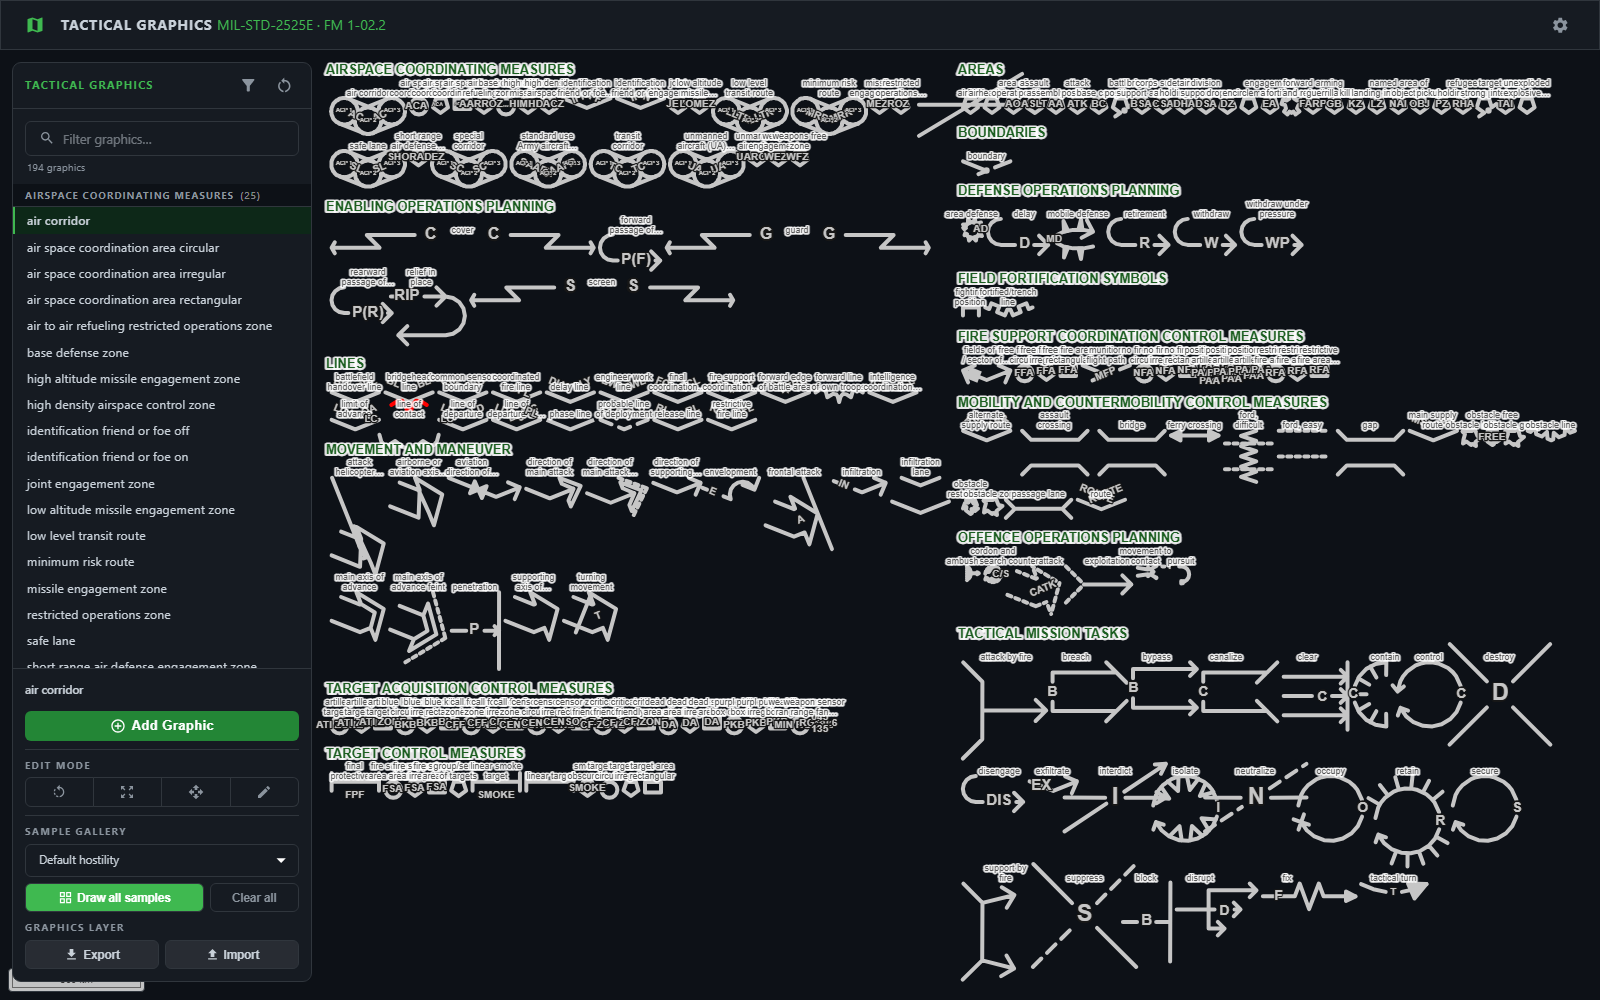
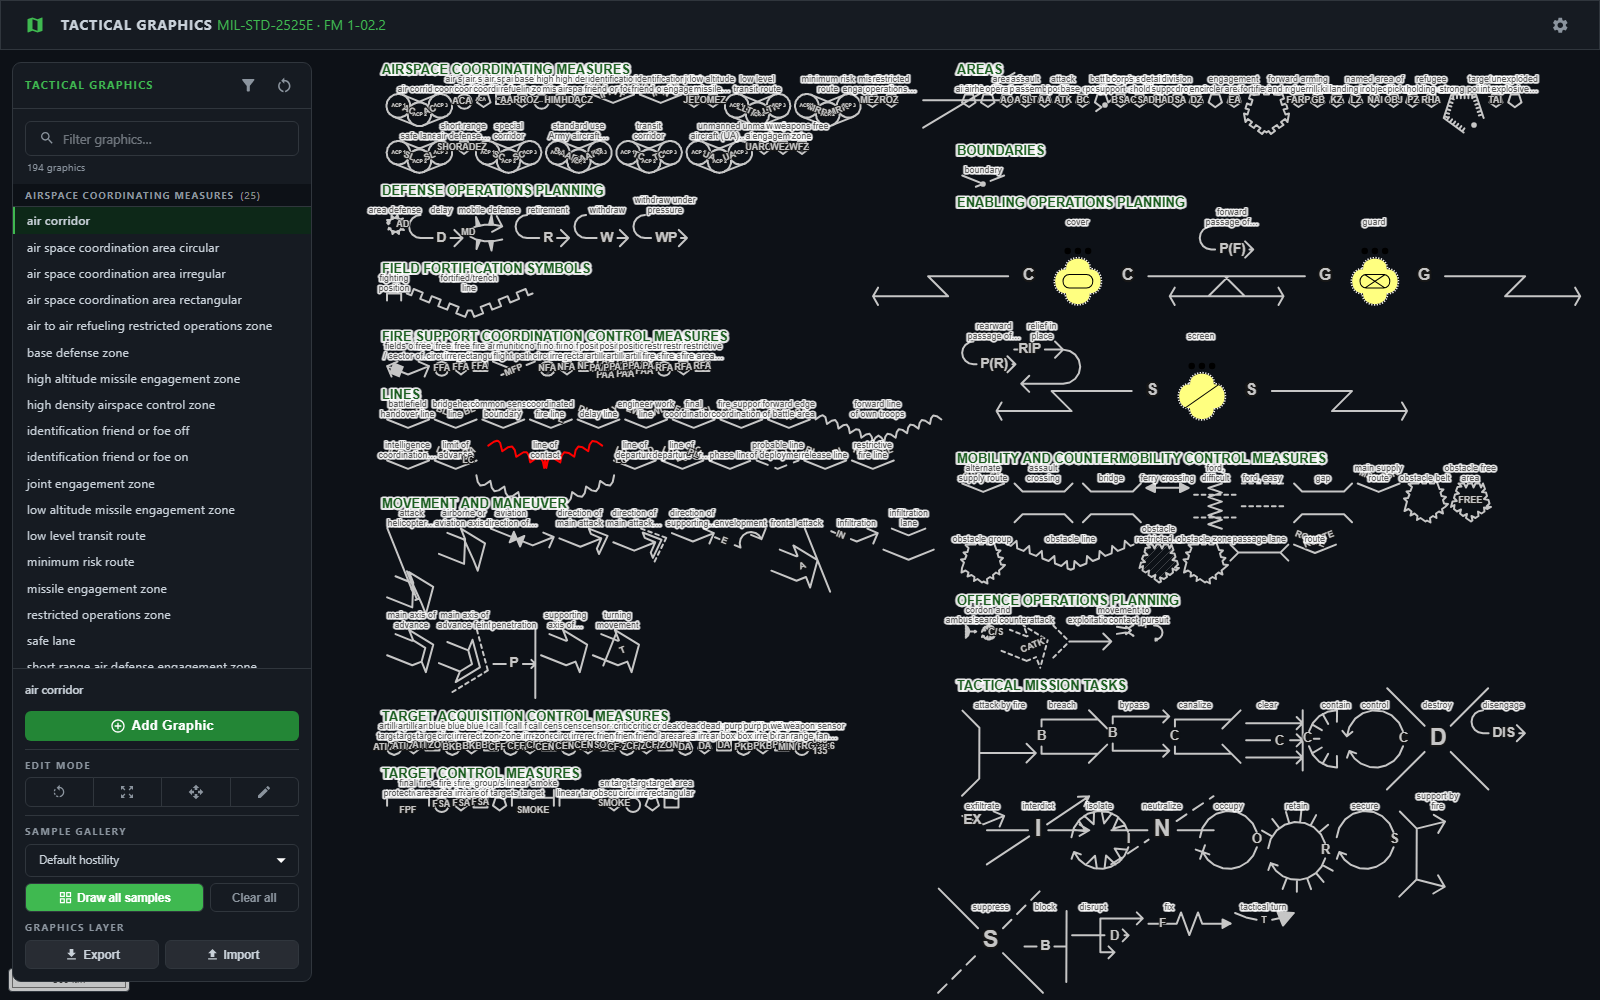
Shrink decorations, then drop them, once the shape is small on screen
Obstacle teeth, fortified merlons, the FLOT and line-of-contact scallops and
StrongPoint's cross ties are drawn at a constant number of screen pixels. That
is right in the middle of the range and wrong at the far end: zoomed out, a
117 px obstacle line still carried six full-size teeth and read as a zigzag
rather than as a line.

decorationScale already existed for a shape too small to carry its own
decoration, but its shares - 0.25 closed, 0.12 open - were loose enough that it
effectively never engaged. At 0.12 an open path had to fall under 83 px before a
10 px tooth was touched. They are 0.1 and 0.05 now, and below DECORATION_MIN_PX
the decoration is dropped rather than drawn - a row of 2 px bumps reads as a
fuzzy line, not an obstacle. That costs nothing: the three path builders already
return their input unchanged when the pattern is non-positive.

Shape-relative and not zoom-relative, deliberately. A graphic 120 px across needs
the same treatment whether it got that way by being drawn small or by the user
zooming out; a resolution threshold catches only the second.

StrongPoint was the one set never capped. Its ties are where the screen-fixed
approach started and the others were changed to match them, but they had no cap
at all, so zoomed out they swamped the ring they hang off.

Normal zoom is untouched: a 400 px line still gets its full 10 px teeth.

The sample gallery had to grow to keep up. The floor stripped the decoration from
[…]

diff --git a/src/components/openlayers/openlayerStyles.test.ts b/src/components/openlayers/openlayerStyles.test.ts
@@ -57,6 +57,7 @@ import {
     obstacleAreaStyles,
     obstacleLineStyle,
     obstacleRestrictedZoneStyle,
+    getStyle,
 } from './openlayerStyles';
 
 import {
@@ -598,16 +599,31 @@ describe('obstacle teeth in screen space', () => {
         }
     });
 
-    it('shrinks the teeth rather than swamping a symbol too small to carry them', () => {
-        // A 40 m square at resolution 10 is 4 px across — the gallery case. A 10 px tooth
-        // on a 4 px symbol is nonsense, so the height is capped at a share of the shape.
-        const tiny: number[][] = [[0, 0], [0, 40], [40, 40], [40, 0], [0, 0]];
-        const styles = obstacleAreaStyles(new Feature(new Polygon([tiny])), 10, {outward: true});
+    /** Tallest excursion outside the drawn square, in px. 0 when nothing was added. */
+    const areaToothPx = (sideMetres: number, resolution: number) => {
+        const ring: number[][] = [[0, 0], [0, sideMetres], [sideMetres, sideMetres], [sideMetres, 0], [0, 0]];
+        const styles = obstacleAreaStyles(new Feature(new Polygon([ring])), resolution, {outward: true});
         const drawn = (styles[0].getGeometry() as Polygon).getCoordinates()[0];
-        const offsets = drawn.map(([x, y]) => Math.max(-x, x - 40, -y, y - 40)).filter(d => d > 0.001);
-        const tallestPx = (offsets.length ? Math.max(...offsets) : 0) / 10;
+        const offsets = drawn
+            .map(([x, y]) => Math.max(-x, x - sideMetres, -y, y - sideMetres))
+            .filter(d => d > 0.001);
+        return (offsets.length ? Math.max(...offsets) : 0) / resolution;
+    };
+
+    it('shrinks the teeth rather than swamping a symbol too small to carry them', () => {
+        // 800 m at resolution 10 is 80 px across. A full 10 px tooth is an eighth of the
+        // symbol, so it is capped at DECORATION_MAX_SHARE_CLOSED of the shape instead.
+        const tallestPx = areaToothPx(800, 10);
         expect(tallestPx).toBeLessThan(10);
-        expect(tallestPx).toBeCloseTo(4 * 0.25, 6);
+        expect(tallestPx).toBeCloseTo(80 * 0.1, 6);
+    });
+
+    it('drops the teeth entirely once they would be a few pixels', () => {
+        // A 40 m square at resolution 10 is 4 px across — the gallery case. The cap would
+        // put the teeth at 0.4 px, which is texture on the stroke rather than a symbol,
+        // so the plain ring is drawn instead. Below DECORATION_MIN_PX there is no
+        // decoration at all.
+        expect(areaToothPx(40, 10)).toBe(0);
     });
 
     it('leaves a degenerate ring alone rather than emitting spikes', () => {
@@ -645,20 +661,36 @@ describe('fortified and wave graphics in screen space', () => {
         return geom.getCoordinates().map(([, y]) => Math.abs(y) / resolution).filter(d => d > 0.01);
     };
 
+    /** Tallest merlon on the 4 km LINE at a given resolution, in px. */
+    const fortifiedLinePx = (res: number) => {
+        const styles = fortifiedLineStyleFunc(TacticalGraphicName.FortifiedLine)(
+            lineFeature(TacticalGraphicName.FortifiedLine), res) as Style[];
+        return Math.max(...excursionsPx(styles, res));
+    };
+
+    // Resolution 40 is deliberately absent: it puts the 4 km line at 100 px, small
+    // enough on screen that the shape-relative cap engages. That is the subject of the
+    // test below, not a violation of this one.
     it('sizes the fortified line’s merlons in pixels, not metres', () => {
-        const heights = [40, 10, 2, 0.5].map(res => {
-            const styles = fortifiedLineStyleFunc(TacticalGraphicName.FortifiedLine)(
-                lineFeature(TacticalGraphicName.FortifiedLine), res) as Style[];
-            return Math.max(...excursionsPx(styles, res));
-        });
+        const heights = [10, 2, 0.5].map(fortifiedLinePx);
         heights.forEach(h => expect(h).toBeCloseTo(heights[0], 6));
         expect(heights[0]).toBeCloseTo(11, 6);
+    });
+
+    it('shrinks the merlons once the line itself is small on screen', () => {
+        // 4 km at resolution 40 is 100 px. An 11 px merlon on a 100 px line reads as a
+        // zigzag rather than as a fortified line, so it is capped at
+        // DECORATION_MAX_SHARE_OPEN of the length.
+        expect(fortifiedLinePx(40)).toBeCloseTo(100 * 0.05, 6);
+        expect(fortifiedLinePx(40)).toBeLessThan(fortifiedLinePx(10));
     });
 
     it('sizes the fortified area’s merlons in pixels too, outward whichever way it was drawn', () => {
         for (const ring of [RING, [...RING].reverse()]) {
             const f = new Feature(new Polygon([ring]));
-            const heights = [40, 10, 2].map(res => {
+            // Resolution 40 leaves the 4 km ring 100 px across, inside the cap — see the
+            // fortified line's pair of tests above.
+            const heights = [10, 2].map(res => {
                 const drawn = (fortifiedAreaStyle(f, res)[0].getGeometry() as Polygon).getCoordinates()[0];
                 const outside = drawn.filter(([x, y]) => x < -0.01 || x > 4000.01 || y < -0.01 || y > 4000.01);
                 const inside = drawn.filter(([x, y]) => x > 0.01 && x < 3999.99 && y > 0.01 && y < 3999.99);
@@ -670,13 +702,21 @@ describe('fortified and wave graphics in screen space', () => {
         }
     });
 
+    /** Tallest scallop on the 4 km LINE at a given resolution, in px. */
+    const flotAmplitudePx = (res: number) => {
+        const styles = forwardLineOfOwnTroopsStyleFunc(TacticalGraphicName.ForwardLineOfOwnTroops)(
+            lineFeature(TacticalGraphicName.ForwardLineOfOwnTroops), res) as Style[];
+        return Math.max(...excursionsPx(styles, res));
+    };
+
+    // Resolution 40 excluded for the same reason as the fortified line: 100 px of line
+    // is inside the shape-relative cap.
     it('sizes the forward line of own troops’ scallops in pixels', () => {
-        const amplitudes = [40, 10, 2, 0.5].map(res => {
-            const styles = forwardLineOfOwnTroopsStyleFunc(TacticalGraphicName.ForwardLineOfOwnTroops)(
-                lineFeature(TacticalGraphicName.ForwardLineOfOwnTroops), res) as Style[];
-            return Math.max(...excursionsPx(styles, res));
-        });
-        amplitudes.forEach(a => expect(a).toBeCloseTo(8, 6));
+        [10, 2, 0.5].map(flotAmplitudePx).forEach(a => expect(a).toBeCloseTo(8, 6));
+    });
+
+    it('shrinks the scallops once the line itself is small on screen', () => {
+        expect(flotAmplitudePx(40)).toBeCloseTo(100 * 0.05, 6);
     });
 
     describe('line of contact', () => {
@@ -971,5 +1011,62 @@ describe('provider return shapes', () => {
         const f = feature();
         const style = securityOperationSymbolStyle(TacticalGraphicName.Screen, () => f, () => () => undefined);
         expect(style(f, 10)).toBeUndefined();
+    });
+});
+
+/**
+ * StrongPoint's cross ties.
+ *
+ * These are where the screen-fixed decorations started — the obstacle teeth and the
+ * fortified merlons were changed on 2026-08-03 to match them — but they were the one
+ * set that never got the shape-relative cap, so zoomed out they swamped the ring they
+ * hang off.
+ */
+describe('strong point cross ties', () => {
+    /** A square strong point of `sideMetres`, and the tie lengths it renders, in px. */
+    const tiePx = (sideMetres: number, resolution: number): number[] => {
+        const ring: number[][] = [
+            [0, 0], [0, sideMetres], [sideMetres, sideMetres], [sideMetres, 0], [0, 0],
+        ];
+        const f = new Feature(new Polygon([ring]));
+        writeGraphicProperties([f], TacticalGraphicName.StrongPoint, {label: ''});
+        const styles = getStyle(TacticalGraphicName.StrongPoint, f, resolution) as Style[];
+        return styles
+            .map(s => s.getGeometry())
+            .filter((g): g is LineString => g instanceof LineString)
+            .map(g => {
+                const [a, b] = g.getCoordinates();
+                return Math.hypot(b[0] - a[0], b[1] - a[1]) / resolution;
+            });
+    };
+
+    it('holds the same pixel length while the ring is comfortably large', () => {
+        // 40 km at resolutions 40 and 10 is 1000 px and 4000 px across — far above the
+        // cap either way, so the ties keep their constant 10 px.
+        for (const resolution of [40, 10]) {
+            const ties = tiePx(40_000, resolution);
+            expect(ties.length).toBeGreaterThan(0);
+            ties.forEach(t => expect(t).toBeCloseTo(10, 6));
+        }
+    });
+
+    it('shrinks the ties once the ring is small on screen', () => {
+        // 100 px across is exactly the boundary — DECORATION_MAX_SHARE_CLOSED of it is
+        // the tie's own 10 px, so nothing is taken off. 2 km at resolution 40 is 50 px,
+        // inside it, and the ties come down to a tenth of that.
+        expect(tiePx(4_000, 40)[0]).toBeCloseTo(10, 6);
+
+        const ties = tiePx(2_000, 40);
+        expect(ties.length).toBeGreaterThan(0);
+        ties.forEach(t => expect(t).toBeCloseTo(50 * 0.1, 6));
+    });
+
+    it('drops the ties entirely once they would be a few pixels', () => {
+        // 400 m at resolution 40 is 10 px across — the cap puts a tie at 1 px, which is
+        // fuzz on the outline rather than a symbol. The outline is still drawn.
+        expect(tiePx(400, 40)).toHaveLength(0);
+        const f = new Feature(new Polygon([[[0, 0], [0, 400], [400, 400], [400, 0], [0, 0]]]));
+        writeGraphicProperties([f], TacticalGraphicName.StrongPoint, {label: ''});
+        expect((getStyle(TacticalGraphicName.StrongPoint, f, 40) as Style[]).length).toBeGreaterThan(0);
     });
 });

diff --git a/src/components/openlayers/sampleGallery.ts b/src/components/openlayers/sampleGallery.ts
@@ -111,6 +111,40 @@ function sampleUnitProvider(name: TacticalGraphicName): SecurityOperationSymbolP
     };
 }
 
+/**
+ * Graphics whose style hangs a repeating decoration off the drawn path — obstacle
+ * teeth, fortified merlons, the FLOT and line-of-contact scallops, a strong point's
+ * cross ties.
+ *
+ * They are drawn larger than the rest of the sweep. Those decorations are sized in
+ * screen pixels and are dropped below `DECORATION_MIN_PX`, and at the size the other
+ * samples use — 11 px for an area, 35 px for a line — the cap puts them at one or two
+ * pixels, so every one of these rendered as a plain line or rectangle and the eleven
+ * of them became indistinguishable from each other. A sample that cannot show its own
+ * decoration is not a sample of anything.
+ */
+const DECORATED_GRAPHICS = new Set<TacticalGraphicName>([
+    TacticalGraphicName.ObstacleLine,
+    TacticalGraphicName.ObstacleBelt,
+    TacticalGraphicName.ObstacleGroup,
+    TacticalGraphicName.ObstacleZone,
+    TacticalGraphicName.ObstacleFreeArea,
+    TacticalGraphicName.ObstacleRestrictedArea,
+    TacticalGraphicName.FortifiedLine,
+    TacticalGraphicName.FortifiedArea,
+    TacticalGraphicName.StrongPoint,
+    TacticalGraphicName.ForwardLineOfOwnTroops,
+    TacticalGraphicName.LineOfContact,
+]);
+
+/**
+ * How much larger. Empirical, and only loosely predictable: growing these samples
+ * grows the packed layout, which the sweep then frames with a fit, which gives some
+ * of the gain back. Measured rather than derived — see the note on the security
+ * operation symbol in `measureSample` for the same effect.
+ */
+const DECORATED_SAMPLE_SCALE = 3;
+
 /** EPSG:3857 metres an area graphic (polygon, rectangle, circle) spans from its centre. */
 export const HALF = 30_600;
 /**
@@ -634,16 +668,18 @@ export function applyBaseGeometry(
     cy: number,
     symbolId: string,
 ): void {
+    const grow = DECORATED_GRAPHICS.has(name) ? DECORATED_SAMPLE_SCALE : 1;
     if (handler instanceof MissionTaskController) {
-        handler.graphic.updateGeom({size: HALF, center: [cx, cy], rotation: 0});
+        handler.graphic.updateGeom({size: HALF * grow, center: [cx, cy], rotation: 0});
     } else if (handler instanceof SecurityOperationsController) {
         handler.setBaseFeature(pointFeature([cx, cy], symbolId, name));
     } else if (handler instanceof PolygonGraphicController) {
-        const ring = handler instanceof RectangularAreaGraphicController ? rectRing(cx, cy) : pentagonRing(cx, cy);
+        const half = HALF * grow;
+        const ring = handler instanceof RectangularAreaGraphicController ? rectRing(cx, cy, half) : pentagonRing(cx, cy, half);
         handler.setBaseFeature(polygonFeature(ring, symbolId, name));
     } else if (handler instanceof LineGraphicController) {
         const pts = handler.maxPoints ?? 3; // multi-segment → 3 points (2 segments)
-        handler.setBaseFeature(lineFeature(lineCoords(cx, cy, pts), symbolId, name));
+        handler.setBaseFeature(lineFeature(lineCoords(cx, cy, pts, LINE_HALF * grow), symbolId, name));
     } else {
         throw new Error('unclassified controller');
     }
@@ -655,35 +691,35 @@ export function applyBaseGeometry(
  * Line vertices centred on (cx, cy): 2 points → 1 segment; 3+ → a shallow
  * 2-segment V. Drawn at LINE_HALF, not HALF — see LINE_SCALE.
  */
-function lineCoords(cx: number, cy: number, pts: number): Coordinate[] {
-    if (pts <= 2) return [[cx - LINE_HALF, cy], [cx + LINE_HALF, cy]];
+function lineCoords(cx: number, cy: number, pts: number, half = LINE_HALF): Coordinate[] {
+    if (pts <= 2) return [[cx - half, cy], [cx + half, cy]];
     return [
-        [cx - LINE_HALF, cy + LINE_HALF * 0.2],
-        [cx, cy - LINE_HALF * 0.2],
-        [cx + LINE_HALF, cy + LINE_HALF * 0.2],
+        [cx - half, cy + half * 0.2],
+        [cx, cy - half * 0.2],
+        [cx + half, cy + half * 0.2],
     ];
 }
 
 /** Closed 5-sided ring (point-up pentagon) inscribed in the cell. */
-function pentagonRing(cx: number, cy: number): Coordinate[] {
+function pentagonRing(cx: number, cy: number, half = HALF): Coordinate[] {
     const ring: Coordinate[] = [];
     for (let k = 0; k < 5; k++) {
         const a = -Math.PI / 2 + (k * 2 * Math.PI) / 5;
-        ring.push([cx + HALF * Math.cos(a), cy + HALF * Math.sin(a)]);
+        ring.push([cx + half * Math.cos(a), cy + half * Math.sin(a)]);
     }
     ring.push(ring[0]);
     return ring;
 }
 
 /** Closed rectangle ring (4 corners) inscribed in the cell. */
-function rectRing(cx: number, cy: number): Coordinate[] {
-    const hy = HALF * 0.68;
+function rectRing(cx: number, cy: number, half = HALF): Coordinate[] {
+    const hy = half * 0.68;
     return [
-        [cx - HALF, cy - hy],
-        [cx + HALF, cy - hy],
-        [cx + HALF, cy + hy],
-        [cx - HALF, cy + hy],
-        [cx - HALF, cy - hy],
+        [cx - half, cy - hy],
+        [cx + half, cy - hy],
+        [cx + half, cy + hy],
+        [cx - half, cy + hy],
+        [cx - half, cy - hy],
     ];
 }
 

diff --git a/src/components/openlayers/openlayerStyles.ts b/src/components/openlayers/openlayerStyles.ts
@@ -3168,12 +3168,20 @@ const LINE_OF_CONTACT_OFFSET_PX = 16;
 
 /**
  * How much to shrink a decoration so it still fits the symbol it decorates, 0–1.
+ * Zero means "draw the plain line or ring" — every decoration builder here returns
+ * its input path unchanged when the pattern comes out non-positive.
  *
- * A constant pixel size is right everywhere except on a shape smaller than its own
- * decoration — the sample gallery draws areas 15 px across. `available` is what the
- * decoration has to fit inside: the smaller side of a closed ring's extent, or the length
- * of an open path, because a horizontal line's extent has no height and the smaller side
- * would be zero.
+ * A constant pixel size is right in the middle of the range and wrong at both ends.
+ * Too small a shape cannot carry its own decoration — the sample gallery draws areas
+ * 15 px across — and the same is true of a full-size graphic seen from far enough
+ * out, which is the case this exists for. `available` is what the decoration has to
+ * fit inside: the smaller side of a closed ring's extent, or the length of an open
+ * path, because a horizontal line's extent has no height and the smaller side would
+ * be zero.
+ *
+ * The rule is deliberately about the *shape*, not the zoom. A graphic 120 px across
+ * needs the same treatment whether it got that way by being drawn small or by the
+ * user zooming out, and a resolution threshold would only catch the second.
  */
 function decorationScale(path: Coordinate[], closed: boolean, resolution: number, heightPx: number): number {
     let availablePx: number;
@@ -3185,11 +3193,33 @@ function decorationScale(path: Coordinate[], closed: boolean, resolution: number
         availablePx = pathLength(path) / resolution;
     }
     const share = closed ? DECORATION_MAX_SHARE_CLOSED : DECORATION_MAX_SHARE_OPEN;
-    return Math.max(0, Math.min(1, (availablePx * share) / heightPx));
+    const scale = Math.max(0, Math.min(1, (availablePx * share) / heightPx));
+
+    // Below a few pixels a tooth, merlon or wave crest is not a symbol any more, it is
+    // texture on the stroke — and a row of 2 px bumps reads as a fuzzy line rather than
+    // as an obstacle. Drop it and let the plain geometry stand.
+    return heightPx * scale < DECORATION_MIN_PX ? 0 : scale;
 }
 
-const DECORATION_MAX_SHARE_CLOSED = 0.25;
-const DECORATION_MAX_SHARE_OPEN = 0.12;
+/**
+ * The share of a shape's own on-screen size its decoration may occupy before it starts
+ * shrinking.
+ *
+ * These came down from 0.25 and 0.12 on 2026-08-04, which were loose enough that the cap
+ * effectively never engaged: at 0.12 an open path had to fall under 83 px before a 10 px
+ * tooth was touched, so an obstacle line zoomed out to 117 px still carried six full-size
+ * teeth and read as a zigzag rather than as a line.
+ *
+ * The open share is much the smaller of the two because it is measured against the
+ * path's whole length while the decoration repeats along it — a tooth a twentieth of the
+ * line long is already prominent. A closed ring is measured against its smaller side,
+ * which the decoration spans only once.
+ */
+const DECORATION_MAX_SHARE_CLOSED = 0.1;
+const DECORATION_MAX_SHARE_OPEN = 0.05;
+
+/** Below this many screen pixels a decoration is dropped rather than drawn. */
+const DECORATION_MIN_PX = 3;
 
 /** The point at a distance along a polyline, with the unit direction there. */
 function pathPointAt(path: Coordinate[], distance: number): {point: Coordinate, dir: Coordinate} {
@@ -5396,12 +5426,24 @@ export const createFeatureWithDashedLines = () => {
     return feature;
 };
 
+/** Screen-pixel size of a StrongPoint cross tie, and the spacing between ties. */
+const CROSS_TIE_PX = 10;
+
 function generateCrossTiesForPolygon(polygon: Polygon | MultiLineString, resolution: number, color: string) {
     const styles: any[] = [];
-    const tieSpacing = 10 * resolution; // Distance between ties
-    const tieLength = 10 * resolution; // Half-length of each cross tie
 
     const rings = polygon.getCoordinates(); // [ [ [x, y], ... ], [hole1], [hole2], ... ]
+
+    // StrongPoint's ties are where the screen-fixed decorations started — the obstacle
+    // teeth and the fortified merlons were changed to match them — but they were the one
+    // set never capped, so zoomed out they swamped the ring they hang off. Same
+    // shape-relative rule as the rest now, measured across the whole outline because
+    // `rings` here are the outline segments rather than one closed ring.
+    const scale = decorationScale(rings.flat() as Coordinate[], true, resolution, CROSS_TIE_PX);
+    if (scale <= 0) return styles;
+
+    const tieSpacing = CROSS_TIE_PX * scale * resolution; // Distance between ties
+    const tieLength = CROSS_TIE_PX * scale * resolution; // Half-length of each cross tie
 
     rings.forEach((ring: Coordinate[]) => {
         let totalDistance = 0;
